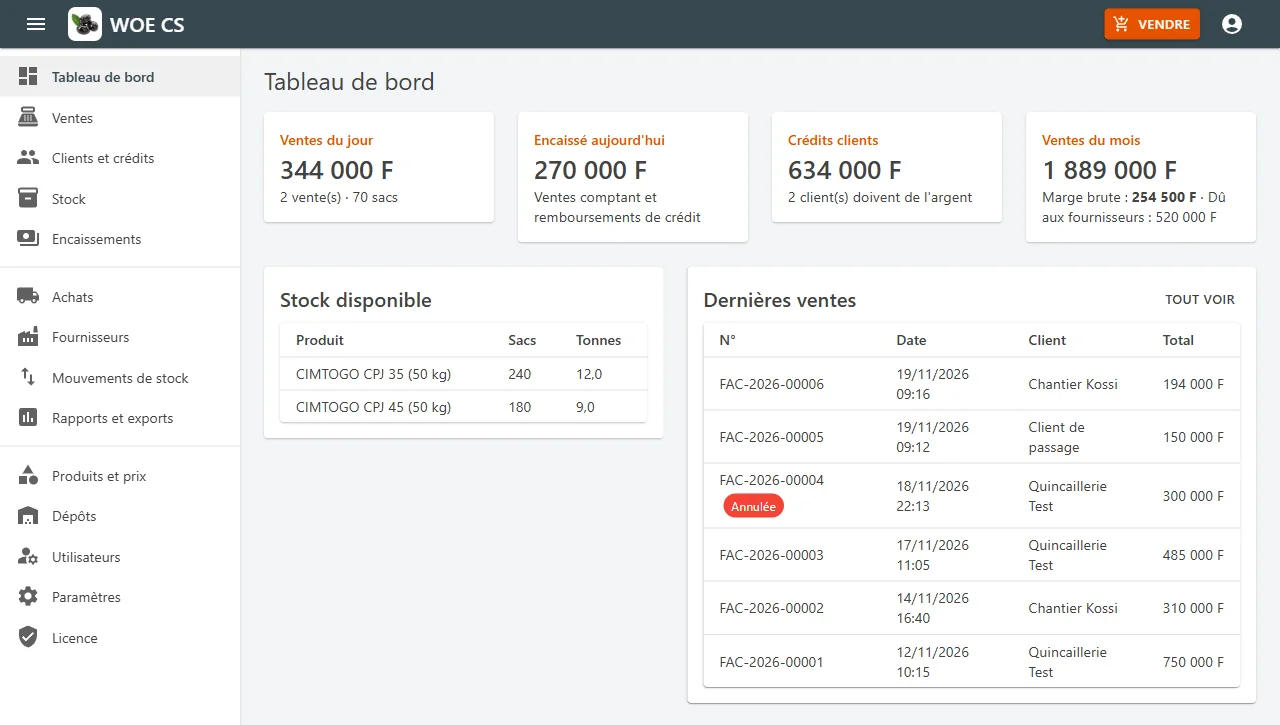
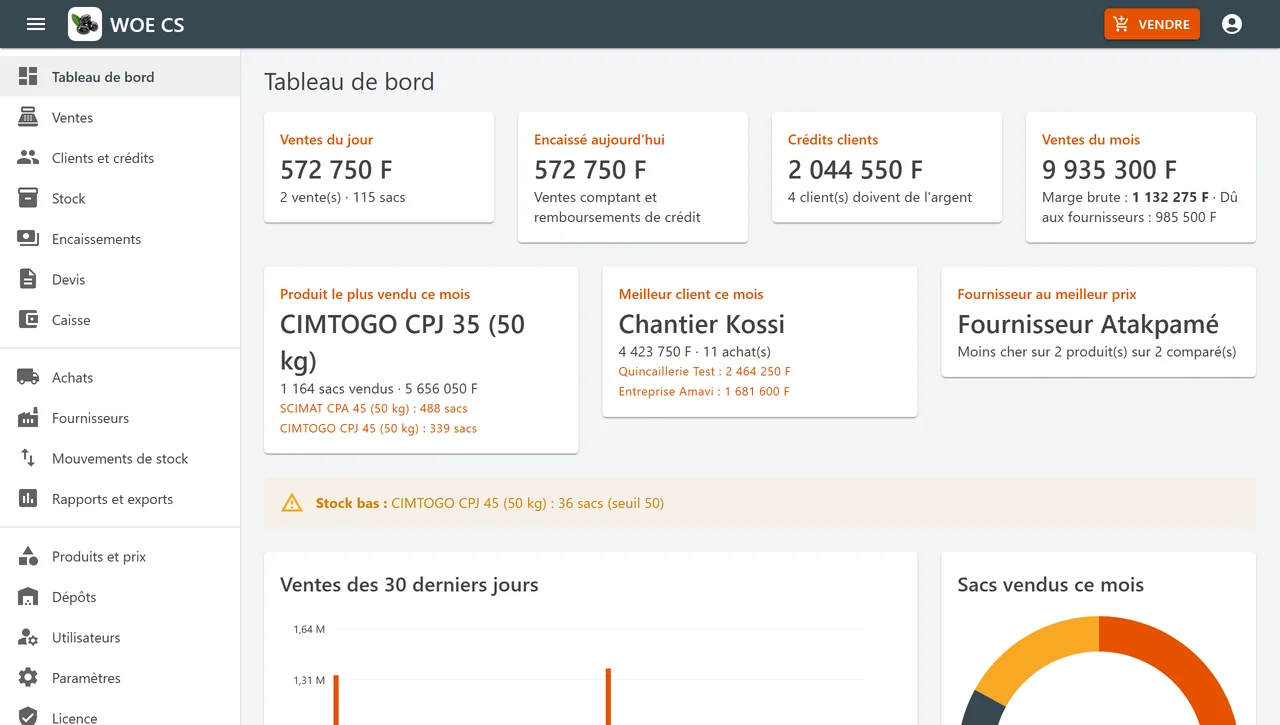
Pages WOE CS et Lotus QS : graphiques et classements du tableau de bord (nouvelles captures, deux blocs, deux fonctions, phrase de la semaine 1)

diff --git a/lotusqs/index.html b/lotusqs/index.html
@@ -320,7 +320,7 @@ footer .wrap{display:flex;justify-content:space-between;align-items:center;flex-
       </ul>
     </div>
     <figure class="fen">
-      <img src="tableau.webp" width="1280" height="575" fetchpriority="high" alt="Tableau de bord de Lotus QS : ventes du jour, argent encaissé, crédits clients, ventes du mois avec la marge, alerte de stock bas et dernières ventes">
+      <img src="tableau.webp" width="1280" height="725" fetchpriority="high" alt="Tableau de bord de Lotus QS : ventes du jour, argent encaissé, crédits clients, ventes du mois avec la marge, article le plus vendu, meilleur client, fournisseur au meilleur prix, alerte de stock bas et début des graphiques">
       <figcaption>Exemple avec des données de test</figcaption>
     </figure>
   </div>
@@ -365,6 +365,30 @@ footer .wrap{display:flex;justify-content:space-between;align-items:center;flex-
 
     <div class="voir-ligne">
       <div class="voir-texte">
+        <span class="tag">GRAPHIQUES</span>
+        <h3>Vos ventes et votre stock, en images</h3>
+        <p>Le tableau de bord trace les ventes des 30 derniers jours, les ventes du mois par article, les six derniers mois avec la marge, et le stock de chaque article face à son seuil d'alerte. Au-dessus, trois cartes donnent l'article le plus vendu du mois, votre meilleur client et le fournisseur le moins cher. Vous voyez ce qui monte, ce qui baisse et ce qu'il faut racheter.</p>
+      </div>
+      <figure class="voir-img">
+        <img src="graphiques.webp" width="1280" height="1461" loading="lazy" alt="Quatre graphiques du tableau de bord de Lotus QS : ventes des 30 derniers jours en barres, ventes du mois par article en anneau, ventes et marge des six derniers mois, stock de chaque article comparé à son seuil d'alerte">
+        <figcaption>Tableau de bord, données de test</figcaption>
+      </figure>
+    </div>
+
+    <div class="voir-ligne">
+      <div class="voir-texte">
+        <span class="tag">FOURNISSEURS</span>
+        <h3>Le fournisseur le moins cher, article par article</h3>
+        <p>Chaque achat garde le prix payé. Le tableau de bord compare le dernier prix de chaque fournisseur, pour chaque article, et vous dit qui vend le moins cher, et de combien. Seul l'administrateur voit cette partie, parce que ce sont vos prix d'achat.</p>
+      </div>
+      <figure class="voir-img">
+        <img src="prix.webp" width="1280" height="690" loading="lazy" alt="Tableau Meilleur prix d'achat par article : pour chaque article, le fournisseur le moins cher, le prix unitaire et l'écart avec le fournisseur suivant">
+        <figcaption>Meilleur prix d'achat, données de test</figcaption>
+      </figure>
+    </div>
+
+    <div class="voir-ligne">
+      <div class="voir-texte">
         <span class="tag">ARTICLES</span>
         <h3>Chaque article, avec ses deux prix et sa marge</h3>
         <p>Référence, code-barres, catégorie, unité, prix détail, prix gros, coût moyen et marge. Le coût moyen se met à jour tout seul à chaque achat, transport compris. Vous importez ou exportez la liste avec Excel.</p>
@@ -395,7 +419,7 @@ footer .wrap{display:flex;justify-content:space-between;align-items:center;flex-
     <p class="intro">Vous essayez avec vos vrais articles et vos vraies ventes.</p>
     <ol class="etapes">
       <li><span class="quand">Jour 1</span><strong>Vous l'installez, ou je viens</strong><span class="t">Téléchargez le dossier sur l'ordinateur de la quincaillerie et lancez l'installation : la notice vous guide pas à pas. Vous préférez que je le fasse ? Je viens, j'importe votre liste d'articles avec le stock de départ et je forme votre vendeur à la vente et au scan.</span></li>
-      <li><span class="quand">Semaine 1</span><strong>Chaque vente compte</strong><span class="t">Chaque vente et chaque achat met le stock à jour. Le soir, vous ouvrez le tableau de bord : ventes du jour, argent encaissé, crédits clients, articles en stock bas.</span></li>
+      <li><span class="quand">Semaine 1</span><strong>Chaque vente compte</strong><span class="t">Chaque vente et chaque achat met le stock à jour. Le soir, vous ouvrez le tableau de bord : ventes du jour, argent encaissé, crédits clients, articles en stock bas, et les graphiques de vos ventes.</span></li>
       <li><span class="quand">Jour 30</span><strong>Vous demandez la clé</strong><span class="t">Dans le menu Licence, copiez le code de votre ordinateur et envoyez-le moi sur WhatsApp. Je vous réponds avec la clé. Vous la collez, vous cliquez sur Activer, et vous continuez à 15&nbsp;000&nbsp;FCFA par mois.</span></li>
     </ol>
     <div class="telecharger">
@@ -410,8 +434,8 @@ footer .wrap{display:flex;justify-content:space-between;align-items:center;flex-
     <h2 id="t-contenu">Tout ce que contient Lotus QS</h2>
     <p class="intro">Une quincaillerie ne travaille pas comme un dépôt de ciment. Beaucoup d'articles, des références, des quantités qui ne tombent pas toujours juste : chaque fonction vient de là.</p>
     <div class="fonctions">
-      <div><details><summary>Prix détail et prix gros</summary><p>Chaque article a un prix détail, un prix de gros et la quantité à partir de laquelle le gros s'applique. Le bon prix se met seul à la vente.</p></details><details><summary>Vente au mètre, au kilo, à la pièce</summary><p>Câble au mètre, clous au kilo, robinets à la pièce. Les quantités peuvent avoir des décimales, arrondies à trois chiffres.</p></details><details><summary>Recherche sans accent et scan de code-barres</summary><p>Tapez « robinet » ou « ROBINET », avec ou sans accent. Avec un lecteur de code-barres, vous scannez et l'article s'ajoute à la vente.</p></details><details><summary>Facture PDF avec le montant en lettres</summary><p>Une facture avec le client, les quantités, ce qui est payé et ce qui reste à payer. Prête à imprimer ou à envoyer.</p></details><details><summary>Vente comptant ou à crédit</summary><p>Le client paie tout de suite ou prend à crédit. Dans le second cas, la dette apparaît sur sa fiche, avec un plafond de crédit.</p></details><details><summary>TVA, remise et livraison</summary><p>La TVA de 18 % s'ajoute d'un clic quand il en faut une. Vous pouvez faire une remise et noter l'adresse ou le camion de livraison.</p></details></div>
-      <div><details><summary>Fiche article complète</summary><p>Désignation, référence, code-barres, catégorie, unité, seuil d'alerte. Vingt-deux catégories de quincaillerie sont proposées, et vous pouvez écrire les vôtres.</p></details><details><summary>Import et export Excel</summary><p>Vous avez déjà votre liste d'articles dans Excel&nbsp;? Vous l'importez avec le stock de départ. Vous pouvez aussi tout exporter pour votre comptable.</p></details><details><summary>Achats, fournisseurs et coût moyen</summary><p>À chaque achat, le transport est réparti et le coût moyen est recalculé. Vous voyez ce que vous devez à chaque fournisseur, et votre marge sur chaque article.</p></details><details><summary>Plusieurs magasins, mouvements de stock, inventaire</summary><p>Chaque magasin a son stock. Le stock est la somme des mouvements : achats, ventes, transferts, casse. Personne ne le tape à la main.</p></details><details><summary>Alerte de stock bas</summary><p>Le tableau de bord liste les articles passés sous leur seuil. Vous savez quoi commander avant que le rayon soit vide.</p></details><details><summary>Comptes administrateur et vendeur, sauvegarde chaque jour</summary><p>Chacun a son mot de passe. Une copie des données est faite chaque jour et les 30 dernières sont gardées.</p></details></div>
+      <div><details><summary>Prix détail et prix gros</summary><p>Chaque article a un prix détail, un prix de gros et la quantité à partir de laquelle le gros s'applique. Le bon prix se met seul à la vente.</p></details><details><summary>Vente au mètre, au kilo, à la pièce</summary><p>Câble au mètre, clous au kilo, robinets à la pièce. Les quantités peuvent avoir des décimales, arrondies à trois chiffres.</p></details><details><summary>Recherche sans accent et scan de code-barres</summary><p>Tapez « robinet » ou « ROBINET », avec ou sans accent. Avec un lecteur de code-barres, vous scannez et l'article s'ajoute à la vente.</p></details><details><summary>Facture PDF avec le montant en lettres</summary><p>Une facture avec le client, les quantités, ce qui est payé et ce qui reste à payer. Prête à imprimer ou à envoyer.</p></details><details><summary>Vente comptant ou à crédit</summary><p>Le client paie tout de suite ou prend à crédit. Dans le second cas, la dette apparaît sur sa fiche, avec un plafond de crédit.</p></details><details><summary>TVA, remise et livraison</summary><p>La TVA de 18 % s'ajoute d'un clic quand il en faut une. Vous pouvez faire une remise et noter l'adresse ou le camion de livraison.</p></details><details><summary>Tableau de bord avec graphiques</summary><p>Les ventes des 30 derniers jours, les ventes du mois par article, les six derniers mois avec la marge et le stock face au seuil d'alerte. Les chiffres se mettent à jour à chaque vente.</p></details></div>
+      <div><details><summary>Fiche article complète</summary><p>Désignation, référence, code-barres, catégorie, unité, seuil d'alerte. Vingt-deux catégories de quincaillerie sont proposées, et vous pouvez écrire les vôtres.</p></details><details><summary>Import et export Excel</summary><p>Vous avez déjà votre liste d'articles dans Excel&nbsp;? Vous l'importez avec le stock de départ. Vous pouvez aussi tout exporter pour votre comptable.</p></details><details><summary>Achats, fournisseurs et coût moyen</summary><p>À chaque achat, le transport est réparti et le coût moyen est recalculé. Vous voyez ce que vous devez à chaque fournisseur, et votre marge sur chaque article.</p></details><details><summary>Plusieurs magasins, mouvements de stock, inventaire</summary><p>Chaque magasin a son stock. Le stock est la somme des mouvements : achats, ventes, transferts, casse. Personne ne le tape à la main.</p></details><details><summary>Alerte de stock bas</summary><p>Le tableau de bord liste les articles passés sous leur seuil. Vous savez quoi commander avant que le rayon soit vide.</p></details><details><summary>Article, client et fournisseur en tête</summary><p>L'article le plus vendu du mois, votre meilleur client et le fournisseur qui vous vend le moins cher. Le prix d'achat n'est visible que par l'administrateur.</p></details><details><summary>Comptes administrateur et vendeur, sauvegarde chaque jour</summary><p>Chacun a son mot de passe. Une copie des données est faite chaque jour et les 30 dernières sont gardées.</p></details></div>
     </div>
   </div>
 </section>

diff --git a/cimentstock/index.html b/cimentstock/index.html
@@ -324,7 +324,7 @@ footer .wrap{display:flex;justify-content:space-between;align-items:center;flex-
       </ul>
     </div>
     <figure class="fen">
-      <img src="tableau.webp" width="1280" height="725" fetchpriority="high" alt="Tableau de bord de WOE CS : ventes du jour, argent encaissé, crédits clients, stock en sacs et en tonnes, dernières ventes dont une annulée">
+      <img src="tableau.webp" width="1280" height="725" fetchpriority="high" alt="Tableau de bord de WOE CS : ventes du jour, argent encaissé, crédits clients, ventes du mois avec la marge, produit le plus vendu, meilleur client, fournisseur au meilleur prix, alerte de stock bas et début des graphiques">
       <figcaption>Exemple avec des données de test</figcaption>
     </figure>
   </div>
@@ -371,6 +371,30 @@ footer .wrap{display:flex;justify-content:space-between;align-items:center;flex-
 
     <div class="voir-ligne">
       <div class="voir-texte">
+        <span class="tag">GRAPHIQUES</span>
+        <h3>Vos ventes et votre stock, en images</h3>
+        <p>Le tableau de bord trace les ventes des 30 derniers jours, les sacs vendus par produit, les six derniers mois avec la marge, et le stock de chaque produit face à son seuil d'alerte. Au-dessus, trois cartes donnent le produit le plus vendu du mois, votre meilleur client et le fournisseur le moins cher. Vous voyez ce qui monte, ce qui baisse et ce qu'il faut racheter.</p>
+      </div>
+      <figure class="voir-img">
+        <img src="graphiques.webp" width="1280" height="1313" loading="lazy" alt="Quatre graphiques du tableau de bord de WOE CS : ventes des 30 derniers jours en barres, sacs vendus par produit en anneau, ventes et marge des six derniers mois, stock de chaque produit comparé à son seuil d'alerte">
+        <figcaption>Tableau de bord, données de test</figcaption>
+      </figure>
+    </div>
+
+    <div class="voir-ligne">
+      <div class="voir-texte">
+        <span class="tag">FOURNISSEURS</span>
+        <h3>Le fournisseur le moins cher, produit par produit</h3>
+        <p>Chaque achat garde le prix payé. Le tableau de bord compare le dernier prix de chaque fournisseur et vous dit qui vend le moins cher, et de combien. Seul l'administrateur voit cette partie, parce que ce sont vos prix d'achat.</p>
+      </div>
+      <figure class="voir-img">
+        <img src="prix.webp" width="1280" height="315" loading="lazy" alt="Tableau Meilleur prix d'achat par produit : pour chaque produit, le fournisseur le moins cher, le prix du sac et l'écart avec le fournisseur suivant">
+        <figcaption>Meilleur prix d'achat, données de test</figcaption>
+      </figure>
+    </div>
+
+    <div class="voir-ligne">
+      <div class="voir-texte">
         <span class="tag">STOCK</span>
         <h3>Chaque produit, au sac près</h3>
         <p>Sacs, tonnes, coût moyen et valeur de ce qu'il y a dans le dépôt. Le stock est calculé à partir de chaque vente et de chaque arrivage : personne ne le tape à la main. L'inventaire et la casse s'enregistrent aussi.</p>
@@ -414,7 +438,7 @@ footer .wrap{display:flex;justify-content:space-between;align-items:center;flex-
     <p class="intro">Vous essayez avec vos vraies ventes. Vous savez quand regarder, et quoi regarder.</p>
     <ol class="etapes">
       <li><span class="quand">Jour 1</span><strong>Vous l'installez, ou je viens</strong><span class="t">Téléchargez le dossier sur l'ordinateur du dépôt, ouvrez-le et lancez l'installation : la notice dans le dossier vous guide pas à pas. Vous préférez que je le fasse&nbsp;? Écrivez-moi, je viens, je saisis votre stock de départ et je forme votre employé en 15 minutes.</span></li>
-      <li><span class="quand">Semaine 1</span><strong>Chaque vente compte</strong><span class="t">Chaque vente et chaque arrivage met le stock à jour. Le soir, vous ouvrez le tableau de bord : ventes du jour, argent encaissé, crédits clients.</span></li>
+      <li><span class="quand">Semaine 1</span><strong>Chaque vente compte</strong><span class="t">Chaque vente et chaque arrivage met le stock à jour. Le soir, vous ouvrez le tableau de bord : ventes du jour, argent encaissé, crédits clients, et les graphiques de vos ventes.</span></li>
       <li><span class="quand">Jour 30</span><strong>Vous demandez la clé</strong><span class="t">Dans le menu Licence, copiez le code de votre ordinateur et envoyez-le moi sur WhatsApp. Je vous réponds avec la clé. Vous la collez, vous cliquez sur Activer, et vous continuez à 12&nbsp;000&nbsp;FCFA par mois.</span></li>
     </ol>
     <div class="telecharger">
@@ -437,6 +461,7 @@ footer .wrap{display:flex;justify-content:space-between;align-items:center;flex-
         <details><summary>Annulation tracée</summary><p>Une vente annulée n'est pas effacée. Elle reste dans la liste, marquée « Annulée », avec son numéro et sa date.</p></details>
         <details><summary>Plafond de crédit par client</summary><p>Vous fixez ce que chaque client peut devoir au maximum. Vous voyez où il en est.</p></details>
         <details><summary>Relevé de compte et paiements partiels</summary><p>Chaque client a son relevé. Un paiement en plusieurs fois est réparti sur ses factures les plus anciennes.</p></details>
+        <details><summary>Tableau de bord avec graphiques</summary><p>Les ventes des 30 derniers jours, les sacs vendus par produit, les six derniers mois avec la marge et le stock face au seuil d'alerte. Les chiffres se mettent à jour à chaque vente.</p></details>
       </div>
       <div>
         <details><summary>Achats et coût moyen</summary><p>À chaque arrivage, le transport est réparti sur les sacs et le coût moyen est recalculé. Vous savez combien vous devez à chaque fournisseur.</p></details>
@@ -444,6 +469,7 @@ footer .wrap{display:flex;justify-content:space-between;align-items:center;flex-
         <details><summary>Le stock n'est jamais tapé à la main</summary><p>Il est la somme des mouvements : arrivages, ventes, transferts, casse. C'est ce qui empêche le chiffre de dériver.</p></details>
         <details><summary>Encaissements par mode de paiement</summary><p>Espèces, T-Money, Flooz&nbsp;: vous voyez ce qui est entré aujourd'hui, par mode de paiement.</p></details>
         <details><summary>Marge, stock bas et exports Excel</summary><p>La marge brute, ce qui descend sous le seuil, et des exports Excel pour votre comptable ou pour vous.</p></details>
+        <details><summary>Produit, client et fournisseur en tête</summary><p>Le produit le plus vendu du mois, votre meilleur client et le fournisseur qui vous vend le moins cher. Le prix d'achat n'est visible que par l'administrateur.</p></details>
         <details><summary>Trois types de comptes, sauvegarde à votre rythme</summary><p>Vendeur, administrateur et super administrateur, chacun avec son mot de passe. Le super administrateur est le seul à régler les paramètres et la licence. Une copie de vos données est faite automatiquement, chaque jour par défaut&nbsp;: vous choisissez le délai (de 15&nbsp;minutes à un an) et le nombre de copies à garder.</p></details>
       </div>
     </div>
